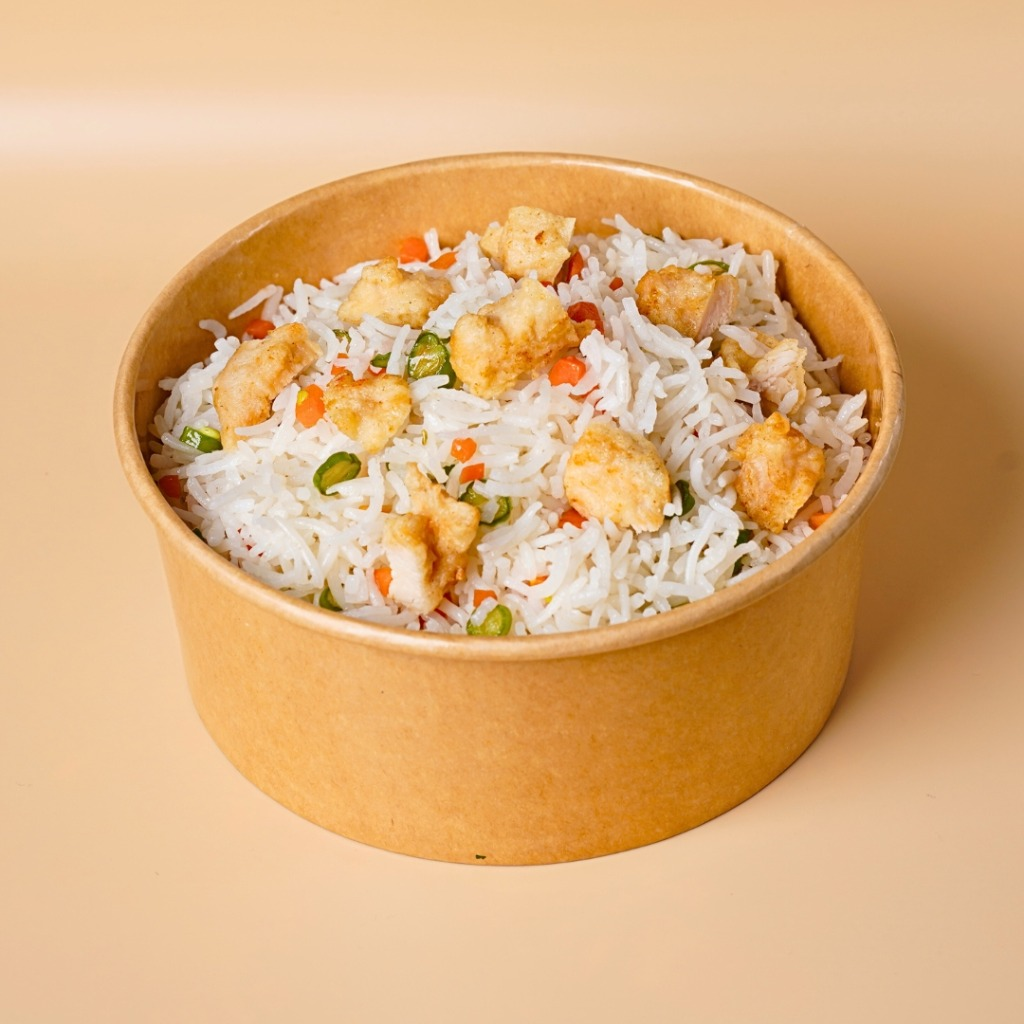
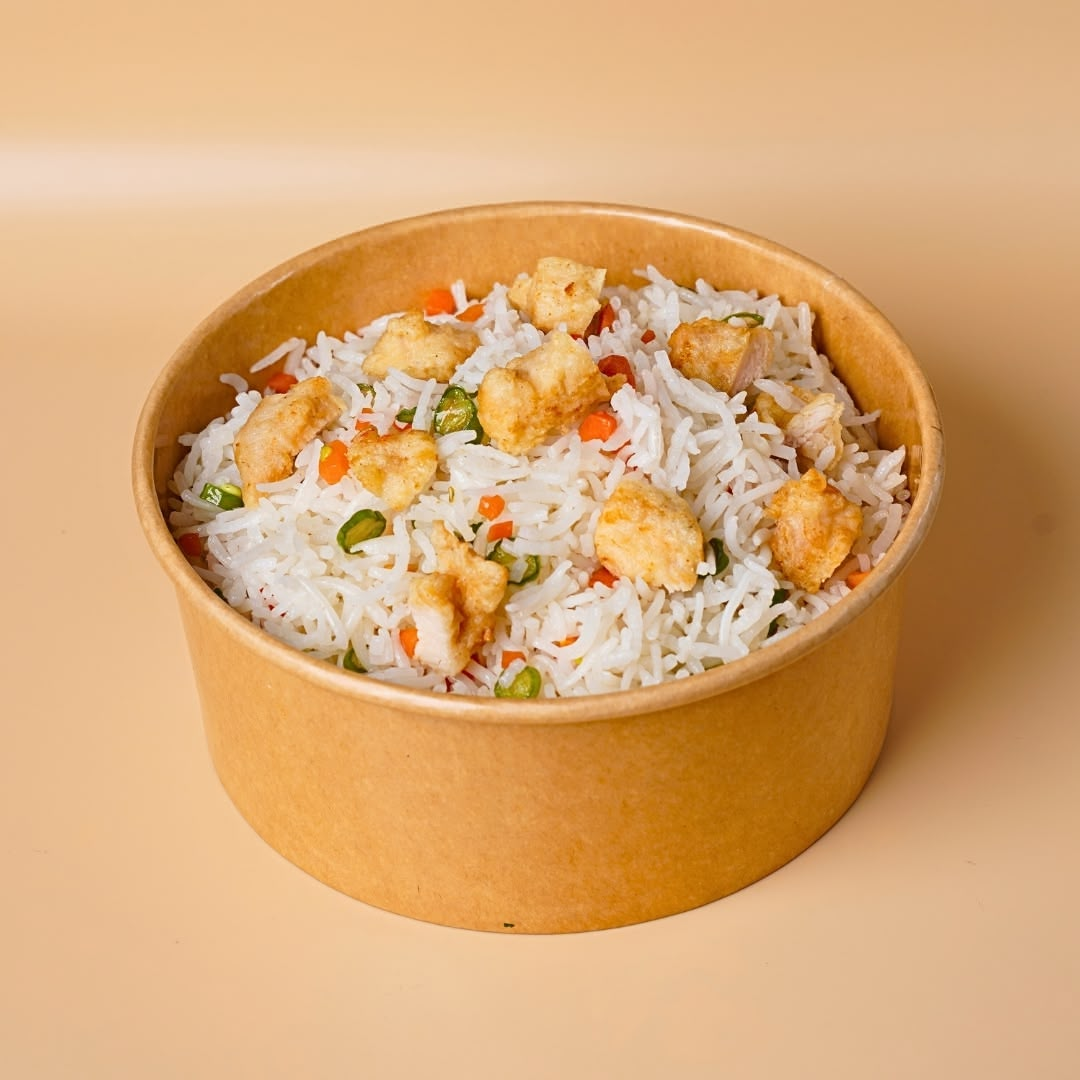
Fix Strict ESLint variables, drop unexpected 'any' type casts, and strip unused imports

diff --git a/src/app/components/Menu.tsx b/src/app/components/Menu.tsx
@@ -1,11 +1,8 @@
 "use client";
 
 import { useState, useEffect, useRef } from "react";
-import Image, { StaticImageData } from "next/image";
-import { Box, Modal } from "@mui/material";
+import { StaticImageData } from "next/image";
 import { useTheme } from "next-themes";
-import CustomSelect from "@/app/components/CustomSelect";
-import DishGallery from "@/app/components/DishGallery";
 import MobileMenuCard from "@/app/components/MobileMenuCard";
 import DesktopMenuCarousel from "@/app/components/DesktopMenuCarousel";
 import ChickenAfghani from '../../../public/images/Week1/nonveg1/chickenAfghan.png';
@@ -1314,12 +1311,7 @@ export default function Menu() {
     return () => document.removeEventListener("mousedown", handleClickOutside);
   }, [isFlipped]);
 
-  const style = {
-    position: "absolute" as const,
-    top: "50%",
-    left: "50%",
-    transform: "translate(-50%, -50%)",
-  };
+
 
   // Helper styles for the toggle labels
   const labelStyle = {
@@ -1455,7 +1447,7 @@ export default function Menu() {
           {/* --- NEW MOBILE MENU UI --- */}
           <div className="lg:hidden mx-auto mt-4 px-2">
             <MobileMenuCard 
-              currentDish={currentDish as any}
+              currentDish={currentDish}
               selectedWeek={selectedWeek}
               setSelectedWeek={setSelectedWeek}
               selectedDay={selectedDay}
@@ -1466,7 +1458,7 @@ export default function Menu() {
           {/* --- NEW DESKTOP CAROUSEL UI --- */}
           <div className="hidden lg:block w-full">
             <DesktopMenuCarousel 
-              availableDishes={availableDishes as any}
+              availableDishes={availableDishes}
               selectedWeek={selectedWeek}
               setSelectedWeek={setSelectedWeek}
               selectedDay={selectedDay}
@@ -1476,14 +1468,5 @@ export default function Menu() {
         </div>
       </div>
     </>
-  );
-}
-
-function NutrientRow({ label, value }: { label: string; value: string }) {
-  return (
-    <div className="flex justify-between items-center py-2 border-b border-white/20">
-      <span className="text-white/90">{label}</span>
-      <span className="text-white font-medium">{value}</span>
-    </div>
   );
 }

diff --git a/src/app/components/DesktopMenuCarousel.tsx b/src/app/components/DesktopMenuCarousel.tsx
@@ -1,5 +1,5 @@
 import React, { useState, useEffect } from 'react';
-import Image from 'next/image';
+import Image, { StaticImageData } from 'next/image';
 import { motion, AnimatePresence } from 'framer-motion';
 import ChiliIcon from './ChiliIcon';
 
@@ -14,7 +14,7 @@ interface Dish {
   name: string;
   week: string;
   description: string;
-  image: any;
+  image: string | StaticImageData;
   isVeg: boolean;
   dayOfWeek: number;
   spiceLevel: number;
@@ -216,7 +216,7 @@ export default function DesktopMenuCarousel({
                 drag="x"
                 dragConstraints={{ left: 0, right: 0 }}
                 dragElastic={1}
-                onDragEnd={(e, { offset, velocity }) => {
+                onDragEnd={(e, { offset }) => {
                   const swipe = offset.x; // positive = dragged right, negative = dragged left
                   if (swipe < -50) {
                     handleNext();

diff --git a/src/app/components/DishGallery.tsx b/src/app/components/DishGallery.tsx
@@ -23,9 +23,7 @@ interface DishGalleryProps {
 const DAY_LABELS = ["Mon", "Tue", "Wed", "Thu", "Fri", "Sat"] as const;
 const DAY_INDICES = [0, 1, 2, 3, 4, 5];
 const CARD_WIDTH_MOBILE = 120;
-const CARD_WIDTH_DESKTOP = 140;
 const CARD_HEIGHT_MOBILE = 168;
-const CARD_HEIGHT_DESKTOP = 196;
 const CARD_GAP = 16; // md token from UI-SPEC spacing scale
 const PEEK = 12; // peek token — 12px of adjacent card visible at edges
 const STEP = CARD_WIDTH_MOBILE + CARD_GAP; // 136px — used for snap calculations (mobile-first)

diff --git a/src/app/components/MobileMenuCard.tsx b/src/app/components/MobileMenuCard.tsx
@@ -1,5 +1,5 @@
 import React, { useState } from 'react';
-import Image from 'next/image';
+import Image, { StaticImageData } from 'next/image';
 import { motion, AnimatePresence } from 'framer-motion';
 import ChiliIcon from './ChiliIcon';
 
@@ -14,7 +14,7 @@ interface Dish {
   name: string;
   week: string;
   description: string;
-  image: any;
+  image: string | StaticImageData;
   isVeg: boolean;
   dayOfWeek: number;
   spiceLevel: number;

diff --git a/src/app/components/HeroReveal.tsx b/src/app/components/HeroReveal.tsx
@@ -357,7 +357,7 @@ export default function HeroReveal() {
       timers.forEach((t) => clearTimeout(t));
       intervals.forEach((iv) => clearInterval(iv));
     };
-  }, []); // eslint-disable-line react-hooks/exhaustive-deps
+  }, []);
 
   return (
     <>
